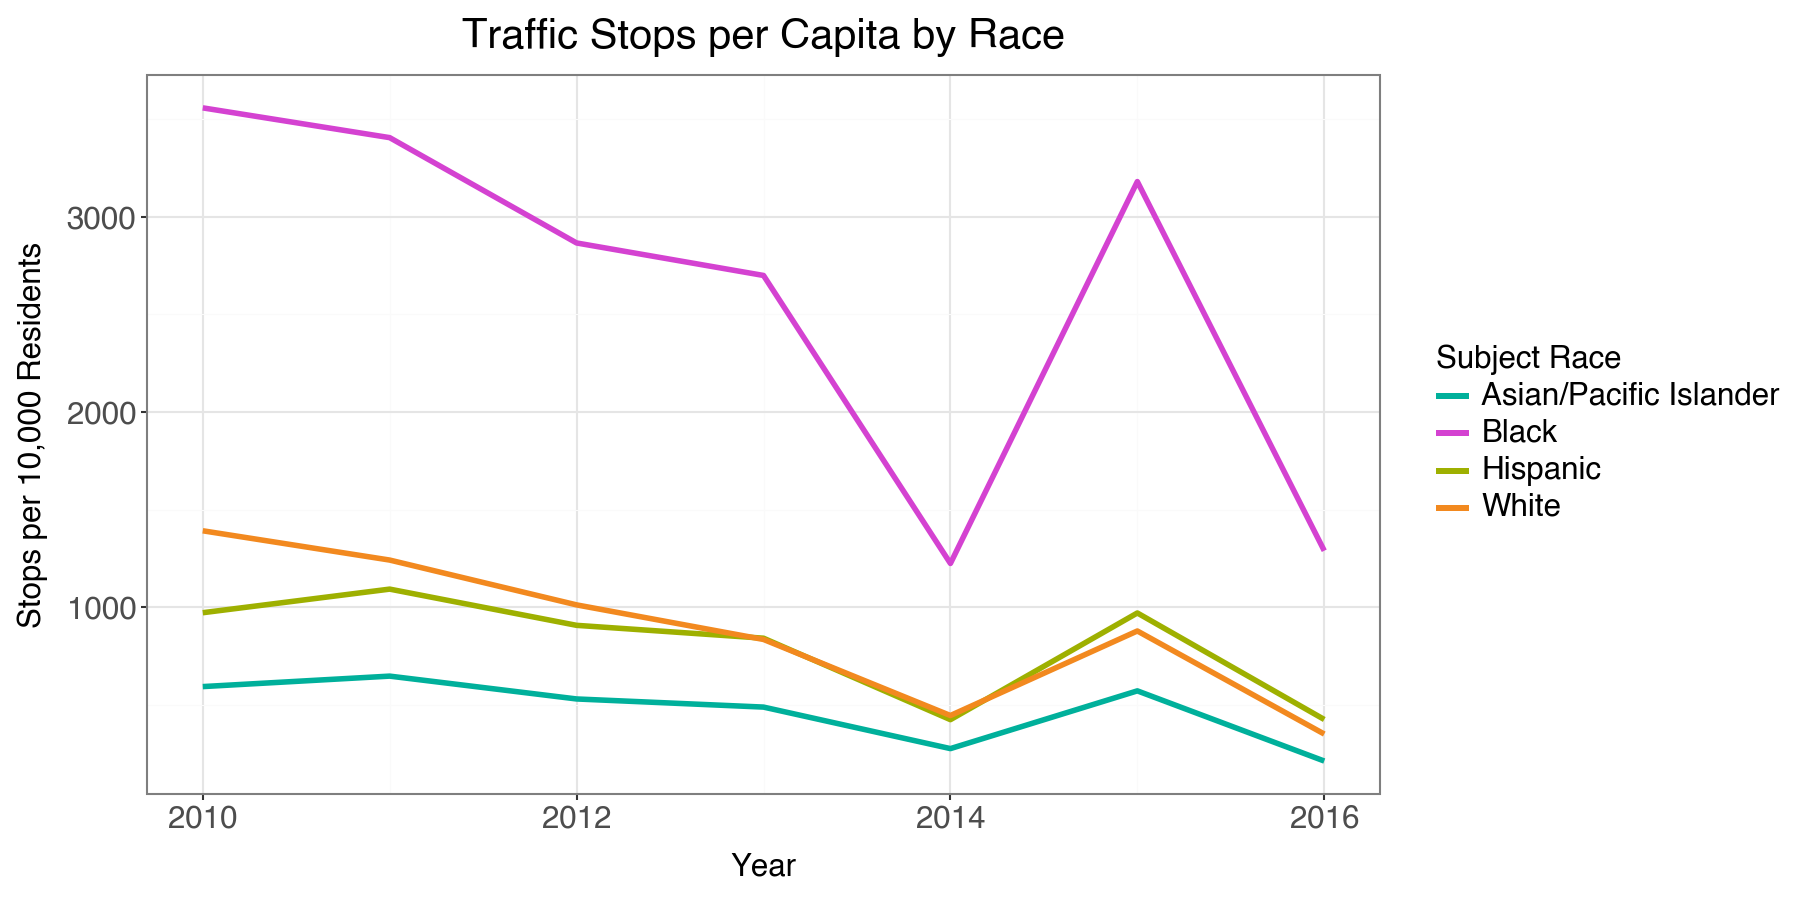
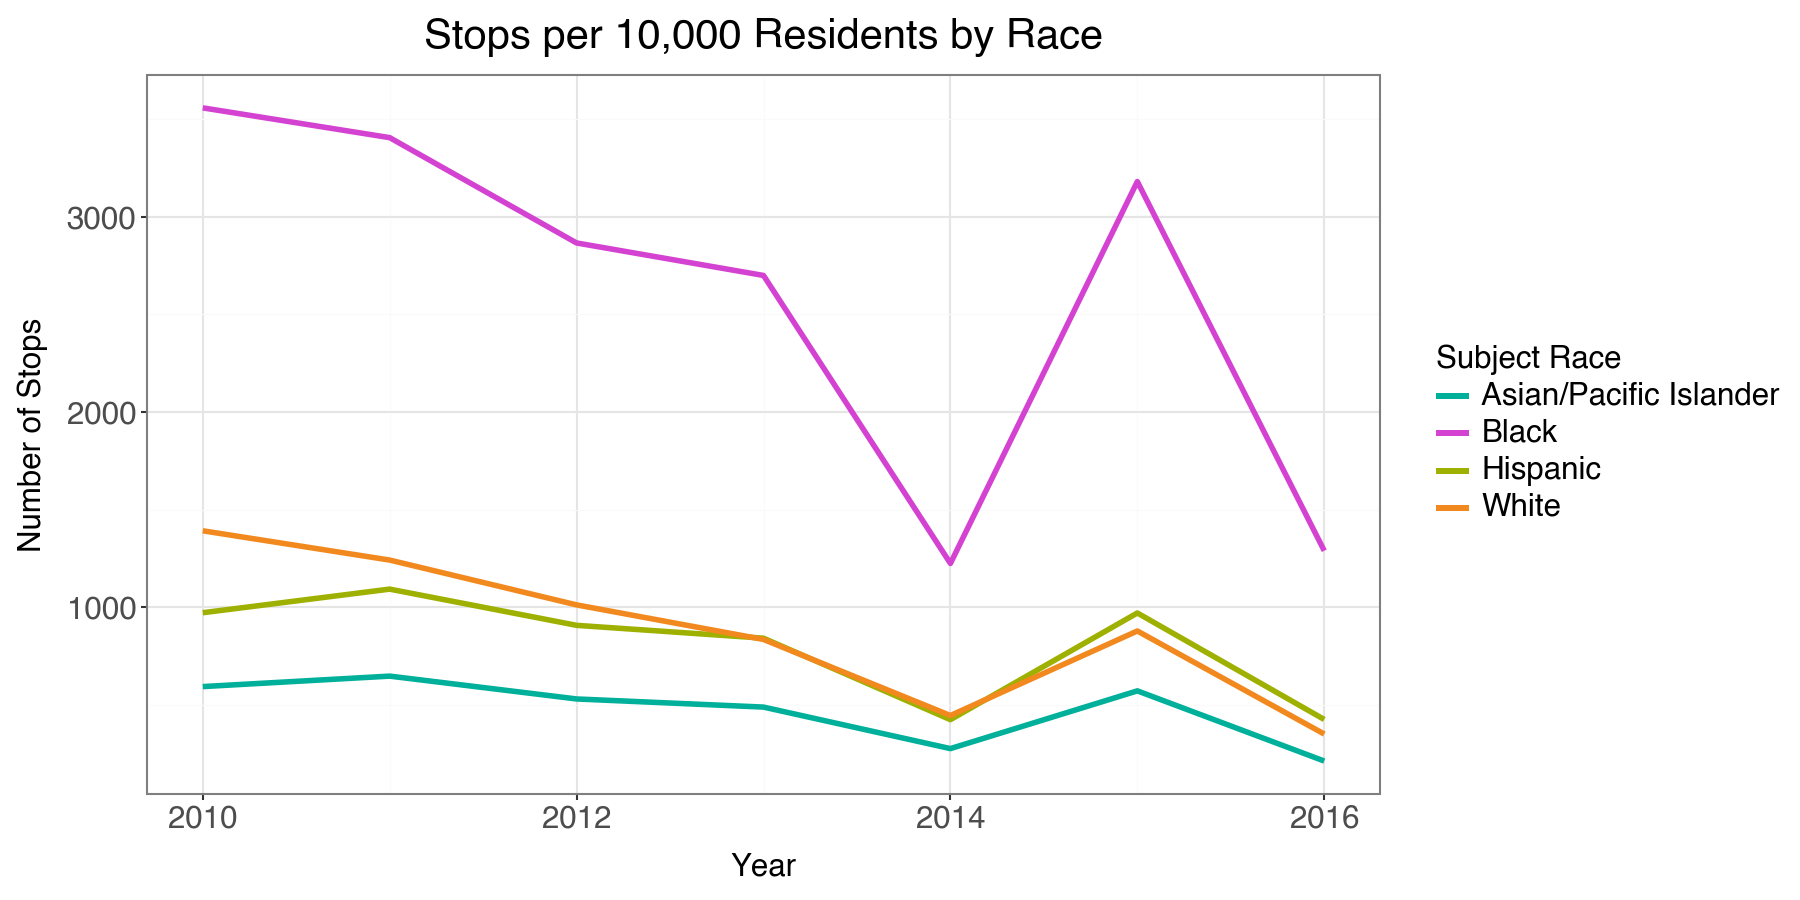
fixed eda plot for report

Changed region(s): [[0.2178, 0.0, 0.6222, 0.0622], [0.0, 0.28, 0.0311, 0.6844]]

diff --git a/bias/src/bias_analysis_functions.py b/bias/src/bias_analysis_functions.py
@@ -533,8 +533,8 @@ def plot_stops_per_capita(df, year_col="year", rate_col="stops_per_capita",
         + scale_color_manual(name="Subject Race", values=RACE_COLORS)
         + labs(
             x="Year",
-            y=f"Stops per {scale:,} Residents",
-            title="Traffic Stops per Capita by Race"
+            y="Number of Stops",
+            title=f"Stops per {scale:,} Residents by Race"
         )
         + theme_bw()
         + theme(
